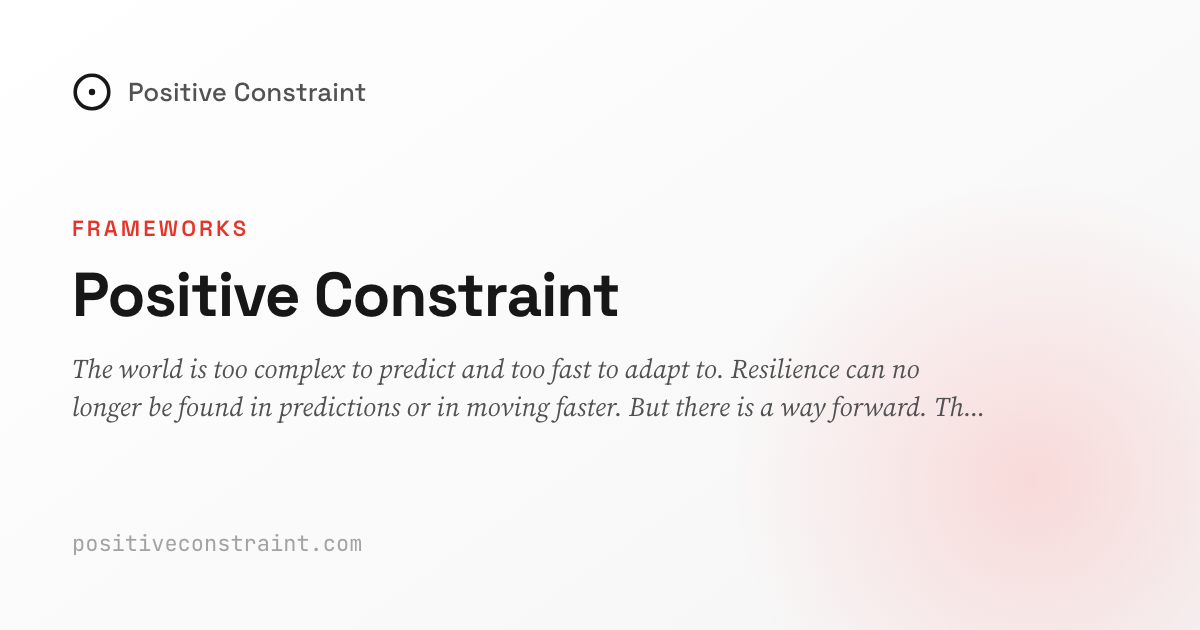
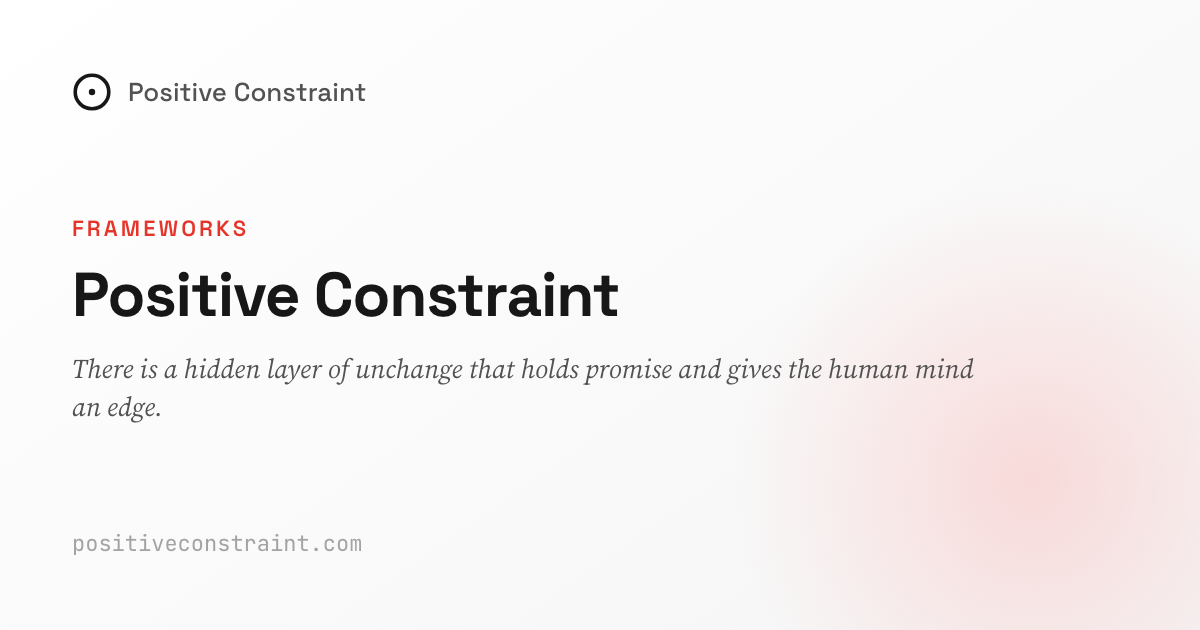
Rewrite Positive Constraint article with new text and subtitle
Replace the article body with the new version (media dropped), add the
"hidden layer of unchange" subtitle, drop the "I've spent a decade" opener,
update reading time to 8 min, and refresh the meta/OG/Twitter descriptions
and the OG card image to match.

Changed region(s): [[0.0925, 0.573, 0.8325, 0.6032], [0.0617, 0.6333, 0.8017, 0.6635]]

diff --git a/site/ideas/positive-constraint/index.html b/site/ideas/positive-constraint/index.html
@@ -15,9 +15,9 @@
 <link rel="icon" href="/favicon.svg" type="image/svg+xml">
 <link rel="apple-touch-icon" href="/apple-touch-icon.png">
 <title>Positive Constraint — Positive Constraint</title>
-<meta name="description" content="The world is too complex to predict and too fast to adapt to. Resilience can no longer be found in predictions or in moving faster. But there is a way forward.">
+<meta name="description" content="There is a hidden layer of unchange that holds promise and gives the human mind an edge.">
 <meta property="og:title" content="Positive Constraint — Positive Constraint">
-<meta property="og:description" content="The world is too complex to predict and too fast to adapt to. Resilience can no longer be found in predictions or in moving faster. But there is a way forward.">
+<meta property="og:description" content="There is a hidden layer of unchange that holds promise and gives the human mind an edge.">
 <meta property="og:type" content="article">
 <meta property="og:url" content="https://positiveconstraint.com/ideas/positive-constraint/">
 <meta property="og:site_name" content="Positive Constraint">
@@ -27,7 +27,7 @@
 <meta property="og:image:alt" content="Positive Constraint — Positive Constraint">
 <meta name="twitter:card" content="summary_large_image">
 <meta name="twitter:title" content="Positive Constraint — Positive Constraint">
-<meta name="twitter:description" content="The world is too complex to predict and too fast to adapt to. Resilience can no longer be found in predictions or in moving faster. But there is a way forward.">
+<meta name="twitter:description" content="There is a hidden layer of unchange that holds promise and gives the human mind an edge.">
 <meta name="twitter:image" content="https://positiveconstraint.com/media/og/positive-constraint.png">
 <link rel="preconnect" href="https://fonts.googleapis.com">
 <link rel="preconnect" href="https://fonts.gstatic.com" crossorigin>
@@ -685,7 +685,7 @@ blockquote cite { display: block; margin-top: var(--space-sm); font-size: 14px; 
   <header>
     <div class="tag-category">FRAMEWORKS</div>
     <h1>Positive Constraint</h1>
-    <p class="piece-summary">The world is too complex to predict and too fast to adapt to. Resilience can no longer be found in predictions or in moving faster. But there is a way forward. The path to resilience will be found not in what's changing, but in what's not. And while everyone rushes to AI, finding it takes a human skill that machines can't replicate.</p>
+    <p class="piece-summary">There is a hidden layer of unchange that holds promise and gives the human mind an edge.</p>
     <div class="piece-meta">
       <span class="tag-label">constraints</span>
       <span class="tag-label">resilience</span>
@@ -693,7 +693,7 @@ blockquote cite { display: block; margin-top: var(--space-sm); font-size: 14px; 
       <span class="tag-label">abstraction</span>
       <span class="tag-label">intuition</span>
       <span class="tag-label">desired-reality</span>
-      <span class="meta-item">20 min read</span>
+      <span class="meta-item">8 min read</span>
     
     
     
@@ -717,197 +717,127 @@ blockquote cite { display: block; margin-top: var(--space-sm); font-size: 14px; 
   </header>
 
   <article>
-    <p>The world is too complex to predict and too fast to adapt to. Resilience can no longer be found in predictions or in moving faster. But there is a way forward. The path to resilience will be found not in what's changing, but in what's not. And while everyone rushes to AI, finding it takes a human skill that machines can't replicate.</p>
+    <p>For the first time in human history, the world is <a href="/ideas/complex-new-world/">too complex to predict and too fast to adapt to</a>. Predicting the future is broken, and by the time we adapt to our environment, the world will change twice over. We need a different strategy.</p>
 
-    <h2>Complex New World</h2>
+    <p>The path to resilience and certainty lies not in what's changing, but <a href="/ideas/embrace-the-unchanging/">in what isn't</a>. Jeff Bezos didn't predict how the market was going to change. He built Amazon's strategy around three unchanging elements. Low prices, vast selection, and fast delivery. Chef Virgilio Martinez based his whole menu on an Andean philosophy that sees the world through the lens of altitude. An unchanging truth that formed his restaurant's identity, and shaped everything he served.</p>
 
-    <p>If you also feel that the world has gone mad, spinning out of control, you're not alone. It has. You're right.</p>
+    <p>There are unchanging elements all around you. The hard part is finding the few that are yours. You can't copy someone else's, and no machine can find them for you. It takes creativity and intuition.</p>
 
-    <div class="media-video media-1-1">
-      <iframe src="https://www.youtube.com/embed/tbdlph_nt24" title="2019 vs 2026" allow="accelerometer; autoplay; clipboard-write; encrypted-media; gyroscope; picture-in-picture" allowfullscreen></iframe>
-    </div>
+    <p>This is the work of constraints. A constraint isn't a nuisance to get rid of, but an unchanging element that shapes everything around it. And constraints run two ways. Read the world through them and you see what shapes it, including what shapes you. Turn them on your own mind and you find the unchanging that is yours to build on. Once you can do this, it works at any size. A menu, a company, a career, a life.</p>
 
-    <p>Over the last few years alone, we lived through a global pandemic, wars, supply-chain collapse, an energy crisis, economic whiplash, and the rise of AI. Not one at a time. Everything, everywhere, all at once. COVID hit global supply chains, which spiked inflation, which reshuffled geopolitics from Ukraine to Israel to Hormuz and Taiwan.</p>
+    <h2>The World in Constraints</h2>
 
-    <p>This is what experts call a polycrisis. Not a sequence of separate problems, but a web where each one deepens the others.</p>
+    <p>Everything in the world can be abstracted into constraints. And once you see them as unchanging, you see them everywhere.</p>
 
-    <img class="media-img" src="/media/a-world-in-chaos.png" alt="2020–2026: a world in chaos" />
+    <p>Budget and time constraints are simple examples. A budget constraint is an unchanging element that shapes how money is spent. There are plenty of ways to spend a $100 budget, but that $100 is fixed. A time constraint is an unchanging element that shapes how time is spent. A 3-hour test or a 15-minute pitch will play out differently every time, but the clock doesn't change.</p>
 
-    <p>And it's not slowing down. At the time of this writing, scientists warn that another global pandemic is a matter of when, not if. Weather models are forecasting what could be the strongest El Niño in 140 years, driving famine and mass migration. Meanwhile, the conflict around Taiwan threatens to reach a climax around 2027, sending global powers to each other's throats. And energy prices, spiked by the Hormuz conflict, show no sign of coming down. Each crisis feeding the next. Each adding fuel to the fire.</p>
+    <p>Gravity is a constraint. It doesn't change, yet it shapes nearly everything. A nation's laws are constraints, guiding the behavior of its residents. The rules of a game shape how it will play out. Cultural traditions influence how people spend their weekends and holidays.</p>
 
-    <p>But even without a single crisis, our world would still be changing fast. Technology alone would see to that.</p>
+    <p>Love is a constraint. It makes you stupid and irrational, and you'd do it again tomorrow. Fear is a constraint. It keeps you safe but too much of it steals your attention and controls your actions.</p>
 
-    <p>In 2016, one analysis listed 73 ways driverless cars will change our lives. People will know exactly when they need to leave and when they will arrive. Parents will trust a secure service with their children. Without the burden of car ownership, how we spend and save money will change. Where we live, how our cities look, and how we spend our time will all change. Seventy-three implications, from one technology.</p>
+    <p>Constraints become a language. You see the forces that shape markets, the values that guide decisions, the necessities that leave no choice.</p>
 
-    <p>And that's just driverless cars. Every aspect of our lives is going through its own disruption. Longevity is changing how long we live and how well we age. How we grow and consume food is being reinvented. How we generate and store energy. We're venturing into space and plan to settle on Mars. And then there's AI, of course, upending everything it touches.</p>
+    <h3>Constraints in Identity and Strategy</h3>
 
-    <p>Each of these will reshape our lives as deeply as driverless cars, sending its own ripples throughout society. Predicting how one might change our lives is possible, in isolation. But these disruptions are not happening in isolation. They are all happening at the same time, in one big turbulent pool. Predicting how all these crises and disruptions will affect us is impossible.</p>
+    <p>Identity and strategy are different sides of the same constraints. Identity is what doesn't change about you. Strategy is the unchanging you choose and hold while the world changes around you. Follow it long enough, and it hardens into identity.</p>
 
-    <div class="media-video media-16-9">
-      <iframe src="https://www.youtube.com/embed/gEjvLf8JkMg" title="Yuval Noah Harari on the unpredictable future" allow="accelerometer; autoplay; clipboard-write; encrypted-media; gyroscope; picture-in-picture" allowfullscreen></iframe>
-    </div>
+    <p>Some constraints you inherit. Venice was built on mud islands to escape barbarian invasions. The water shaped the floating city into what it is.</p>
 
-    <p>For the first time ever, as historian Yuval Noah Harari says, we have no idea what our world will look like in 20 years. A thousand years ago, we taught our kids how to shoot a bow or how to pick mushrooms in the forest. A hundred years ago, we encouraged them to become doctors, lawyers, or engineers to make the most of the new world. The very basic aspects of life were predictable. Not anymore.</p>
+    <p>Some you choose. Patagonia is famous for its core value of environmentalism. It makes the company who it is.</p>
 
-    <blockquote>
-      <p>"If the rate of change on the outside exceeds the rate of change on the inside, the end is near."</p>
-      <cite>— Jack Welch</cite>
-    </blockquote>
+    <p>And some you make. When Doc Rivers coached the Celtics, he aimed a spotlight at the empty space where the next championship banner would go and left it on all season. Nobody could practice without seeing it. It was Rivers' strategy to make the team believe it was possible. They won.</p>
 
-    <p>If we can't predict the future, perhaps we can ride its wave instead. Adapting to change is what we've always done. It makes sense. As Jack Welch, one of the sharpest business minds of the 20th century, put it, outchange your environment, or die. And for a long time, it worked.</p>
+    <p>Each feeds the other. Identity drives strategy, the way it does at Patagonia. Strategy builds identity, the way it did at Amazon.</p>
 
-    <p>It doesn't work anymore.</p>
+    <h3>You Are Your Constraints</h3>
 
-    <p>Adapting assumes you can outchange your environment. But how do you outchange a world that moves faster than you do? By the time you adapt to your new reality, the world will change twice over.</p>
+    <p>Constraints form your identity and shape your behavior, too. Your culture and values guide your decisions. Your family and country influence where you live, what matters to you and the language you speak. Your nana's recipes and childhood memories shape how you cook, how you celebrate, and what feels like home. Everything in your life is a constraint. And so are you.</p>
 
-    <p>It doesn't mean you shouldn't try. But constantly changing, riding wave after wave, is exhausting and unsustainable. People and organizations can only take so much before being overwhelmed by even faster and bigger changes.</p>
+    <p>You are your constraints.</p>
 
-    <p>For the first time in human history, the world is too complex to predict and too fast to adapt to. What used to work no longer does. We need a different strategy for this complex new world.</p>
+    <p>And if you don't choose them yourself, someone else will.</p>
 
-    <h2>Embrace the Unchanging</h2>
+    <h3>A Mirror of Constraints</h3>
 
-    <p>When asked what's going to change in the next 10 years, Jeff Bezos said he's hardly ever asked what <em>isn't</em> going to change. For him that's the more interesting question, because you can build a strategy around the things that are stable in time.</p>
+    <p>Looking at yourself in a mirror of constraints reveals the unchange in you. In the mirror you see who you really are and which way you're pulling. In the mirror you cannot lie. You see reality as it is. How the stories you tell about yourself don't add up.</p>
 
-    <p>No matter the state of the economy or the identity of the president, says Bezos, people will want low prices, vast selection, and fast delivery. When you know something is true even over the long term, you can afford to put a lot of energy into it. To this day, these three elements make up the core of Amazon's strategy and identity.</p>
+    <p>And in the mirror, you see the gap. How who you are and where you are don't take you where you want to be. You're out of tune.</p>
 
-    <p>Instead of trying to predict what's next or to change faster than the world, Bezos anchored Amazon to what doesn't change.</p>
+    <p>Your strategy pulls one way, your identity pulls another. Your values say one thing, your culture does the opposite. Your career is moving one way, your family another. You built around constraints you inherited, or constraints you chose for reasons that no longer apply, and they're not producing the reality you want.</p>
 
-    <p>Until now, we dealt with change by weathering the storm and waiting for it to pass before we could rise again. We built for the calm after the ripples. Now we can't. Now there is no calm. It's a turbulence of change.</p>
+    <p>You need different constraints to build around.</p>
 
-    <p>We can no longer afford to wait for the calm that isn't coming. We need to build for the turbulence that is here to stay. And that means we stop chasing what's changing and anchor to what isn't.</p>
-
-    <p>But how do you find these unchanging elements? And how do you know they're the right ones for you?</p>
-
-    <p>At any given moment, there is an infinite number of things around you that do not change. The sun rises in the east and sets in the west. Gravity pulls you towards the earth. The global population is growing. Unchanging elements are everywhere you look. Most of them are irrelevant and hold no value to you. But a few could be the foundation you build your entire strategy around.</p>
-
-    <p>How do you know which elements are right for you? With the power of the human brain.</p>
-
-    <p>Copying someone else's is tempting. You could build around Amazon's three elements, but Amazon already owns them. The elements that anchor you need to be yours.</p>
-
-    <p>Machines can't help you find your elements. Machines are great at logic and data. AI excels at looking at what is known. But making sense of this complex new world is different. Nothing like this complexity has existed before. This is uncharted territory for humans and machines alike. There is no recorded data, no recognized patterns, nothing for machines to draw on or learn from. Spotting the right unchanging elements for you requires something machines don't have.</p>
-
-    <p>Bezos built around market truths. But unchanging elements can also come from a meaning you offer the world. Virgilio Martinez, one of the world's top chefs, wanted to serve Peru's true identity on a plate. Not just its cuisine, but what the country truly is. The answer came to him when he traveled the land, researching ingredients and communities, and learned of an Andean philosophy that sees the world differently. Not horizontally, but vertically, in levels and altitudes.</p>
-
-    <p>Peru's true identity, Martinez realized, reveals itself through its altitude. From the sea to the mountaintops, each level with its own ingredients, knowledge, and culture. An unchanging truth that his entire menu was built on.</p>
-
-    <div class="media-video media-16-9">
-      <iframe src="https://www.youtube.com/embed/VnS3VKq_5Ws" title="Virgilio Martinez — altitude and Peruvian cuisine" allow="accelerometer; autoplay; clipboard-write; encrypted-media; gyroscope; picture-in-picture" allowfullscreen></iframe>
-    </div>
-
-    <p>Martinez didn't find altitude in a dataset. He used his intuition and creativity instead. Thomas Campbell, a former NASA physicist who has spent decades studying how the mind processes information, argues that intuition is more powerful than intellect. "The questions and the things we want to know that are really important", says Campbell, "there's no data that you can put in to come to a logical conclusion." Where data isn't available, the mind can intuit the way forward. But machines don't have intuition. They are like "a thousand left brains". Finding your unchanging elements isn't a left-brain problem, it's a right-brain one. And that is something only humans can do. It's how Martinez connected altitude, identity, and ingredients.</p>
-
-    <p>But how do we tap this intuition? How do we find our own unchanging elements?</p>
-
-    <h2>Seeing Reality Anew</h2>
-
-    <h3>Constraints</h3>
-
-    <p>The answer is constraints. And not in the way most people think of them.</p>
-
-    <p>Most people flinch from constraints. That's because they miss the point entirely. Artists, for example, have praised them for centuries. Yet what most people see as heavy restrictions might hold the answer we're looking for.</p>
-
-    <p>Artists rely on constraints for creativity. Leonardo da Vinci said that "art lives from constraints and dies from freedom". Best-selling author Umberto Eco adds that "constraints are fundamental to every artistic endeavor".</p>
-
-    <blockquote>
-      <p>"In order to enable the story to proceed, the writer must impose some constraints. Constraints are fundamental to every artistic endeavor. A painter who decides to use oils rather than tempera, a canvas rather than a wall; a composer who opts for a given key; a poet who chooses to use rhyming couplets, or hendecasyllables rather than alexandrines—all establish a system of constraints. So too do avant-garde artists, who seem to avoid constraints; they simply construct others, which go unnoticed."</p>
-      <cite>— Umberto Eco</cite>
-    </blockquote>
-
-    <p>But artists aren't the only ones who appreciate a good constraint. People in business, technology, medicine, education, and sports use constraints to sharpen their thinking. David Epstein shows this in his book "Inside the Box: How Constraints Make Us Better", and goes on to connect it to how the brain actually works. Our brains naturally seek the path of least resistance. Given infinite options, we fall back on familiar, unoriginal habits. But when constrained, the brain can't take shortcuts. It's forced to find new connections and solve problems differently. Not despite the constraint, but because of it.</p>
-
-    <p>Constraints don't limit the mind. They activate it.</p>
-
-    <p>This is where humans do something machines can't. AI excels at logic, patterns, and data. But constraints unlock access to a form of human intelligence that machines can't replicate. Rick Rubin, one of the most celebrated record producers alive, calls it conjuring. To Rubin, constraints don't force answers. They summon intuitive, non-linear creative leaps that have no words yet. Sculptor and philosopher Stanisław Szukalski refers to the creative process as perceiving the as yet unnamed.</p>
-
-    <figure class="media-figure">
-      <img class="media-img" src="/media/vagabond-club.png" alt="Stanisław Szukalski — 'All who eagerly perceive the as yet unnamed, are vagabonds'" />
-      <figcaption>All who eagerly perceive the as yet unnamed, are vagabonds &mdash; Stanisław Szukalski</figcaption>
-    </figure>
-
-    <p>If constraints can tap that power, could they be used to find the resilience we're after?</p>
-
-    <p>Tell your brain "you have three months and half the money" and it gets to work. But what constraints would lead Chef Martinez to Altitude? What would you feed your brain to conjure the foundation your strategy needs?</p>
-
-    <p>Constraints unlock the brain's power, but the complexity around you, your environment, and your challenge don't come neatly packed in constraints.</p>
-
-    <p>You need to translate everything to constraints so you can feed it to your brain and tap its power to find answers.</p>
-
-    <p>But how do you express the world in constraints?</p>
-
-    <h3>Abstraction</h3>
-
-    <figure class="media-figure">
-      <img class="media-img" src="/media/pablo-picasso-the-bull.jpg" alt="Le Taureau (The Bull) by Pablo Picasso" />
-      <figcaption>Le Taureau (The Bull) by Pablo Picasso</figcaption>
-    </figure>
-
-    <p>Taking complex subjects and simplifying them to abstract forms is a skill artists perfect over years. To find the abstract form of a bull, Picasso looked for the few details that carry the most meaning. How much could he take away and still see a bull? Layer by layer he stripped it away, until nothing was left but a single line.</p>
-
-    <p>But it's not the same bull for everyone. It carries different meanings to different people in different contexts. A rancher doesn't care about the artistic line, but about the bull's lineage, age, and fertility. A child doesn't care about the bull's breeding value, she only sees a 'boy cow' that goes 'moo'.</p>
-
-    <p>Abstraction is the process of removing what's unimportant to reveal what's important, and what's important depends on the context.</p>
-
-    <p>Abstraction isn't something you need to learn. You were born with it. As the world grew more complex, people were forced to abstract their world to make sense of it. Psychologist James Flynn found that over the 20th century, abstract reasoning scores rose steadily across every population studied, a phenomenon now known as the Flynn Effect. We evolved to abstract the world around us.</p>
-
-    <p>If we could abstract the world into constraints, we'd be able to bridge the gap and feed the brain exactly what it needs to work with.</p>
-
-    <p>But what is a constraint, in this context? Not a limitation. Not a problem to solve. A constraint is an unchanging element that shapes how its environment changes.</p>
-
-    <p>Budget and time constraints are simple examples. A budget constraint is an unchanging element that shapes how money is spent. There are plenty of ways to spend a $100 budget, but that $100 is fixed. A time constraint is an unchanging element that shapes how time is spent. There are plenty of different outcomes to a 3-hour test or a 15-minute pitch.</p>
-
-    <p>Gravity is a constraint. It doesn't change, yet everything on Earth is shaped by it. The altitude of Peru is a constraint. It shaped the land, the food, the people, and ultimately the menu of one of the world's greatest restaurants. Amazon's low prices, vast selection, and fast delivery that customers want are constraints. They don't change, but they shape how Amazon will grow and change.</p>
-
-    <p>A nation's laws are constraints, guiding the behavior of its residents. The rules of a game shape how it will play out. Cultural traditions influence how people spend their weekends and holidays. Once you start seeing them, they're hard to miss.</p>
-
-    <p>You start seeing the world in constraints. It becomes a language. You see the forces that shape markets, values that guide decisions, necessities that leave no choice. Force. Shape. Influence. Values. Necessity. They all point to something that doesn't change with the power to shape everything around it.</p>
-
-    <p>So how do we abstract into constraints? Abstraction needs context that shows what to keep and what to remove. When abstracting into constraints, the context is what doesn't change. We remove what changes and keep what doesn't.</p>
-
-    <p>And by removing what changes to find what doesn't, you can abstract your world into constraints.</p>
-
-    <p>But something is still missing.</p>
+    <p>But build toward what?</p>
 
     <h3>Desired Reality</h3>
 
-    <p>Every strategy needs a goal, and a strategy for resilience is no different. "Find your unchanging elements" isn't a goal if it's shared by everyone. The goal needs to be yours.</p>
+    <p>Desired reality is the goal in the language of constraints. It's what you want to achieve, and the first question to answer before you look for the unchanging elements that will take you there.</p>
 
-    <p>A goal in the language of constraints is called a Desired Reality, and it does two things.</p>
+    <p>One way to define your desired reality is to reframe your problem as a destination. A problem gives the brain a gap, not a direction. When Martinez was still searching for his restaurant's identity, he started with a problem. His dishes didn't represent true Peru. But a problem tells you what's wrong, not where to go. When he reframed it positively, to serve Peru's true identity on a plate, he had something to build around.</p>
 
-    <p>First, it gives the brain a constraint to work with. A problem described as pain or frustration gives the brain nothing to grip. When Martinez was still searching for his restaurant's identity, he started with a problem. His dishes didn't represent true Peru. But a problem describes a gap, not a destination. When he reframed it as a desired reality, to serve Peru's true identity on a plate, he had something to build around. An unchange he wished to manifest, express, and create.</p>
+    <p>Another way you can find your desired reality is to observe what you don't like about your current reality, and then describe the way you'd want it to look. It needs to be concrete, otherwise it's just vision.</p>
 
-    <p>A desired reality is not a vision. A vision for Martinez might have been 'create the next step for Peruvian cuisine' or 'communicate Peru in a way people have never seen before'. Those point to ambition but tell you nothing about what the world looks like when you get there. Serving Peru's true identity on a plate is concrete enough to act on. Ingredients from every altitude, heritage crops that shaped the people and the land, and flavors you can't find anywhere else.</p>
+    <p>A vision for Martinez might have been "create the next step for Peruvian cuisine". That points to ambition but tells you nothing about what the world looks like when you get there. Serving Peru's true identity on a plate is concrete enough to act on. Ingredients from every altitude, heritage crops that shaped the people and the land, and flavors you can't find anywhere else.</p>
 
-    <p>The second thing a desired reality gives you is the context you need for abstracting the world. What you're building toward is the filter that shows what matters and what doesn't. In the process, you spot which unchanging elements have the power to shape your environment, and ignore everything else.</p>
+    <p style="text-align:center">ⵙ</p>
 
-    <h3>Constraints Mapping &amp; Core Constraints</h3>
+    <h2>See Reality Anew</h2>
 
-    <p>Abstracting the environment in the context of a desired reality is called Constraints Mapping. A few constraints will always matter more than the rest, and this process reveals them. These are the Core Constraints, the high-leverage constraints that have the power to bring about the desired reality.</p>
+    <p>Constraining the mind is the same move turned inward. You force an unchange and let it shape what grows around it. In his book "Inside the Box: How Constraints Make Us Better", David Epstein explains how it works. Our brains naturally seek the path of least resistance. Given infinite options, we fall back on familiar, unoriginal habits. But when constrained, the brain can't take shortcuts. It's forced to find new connections and solve problems differently. Not despite the constraint, but because of it.</p>
 
-    <p>There are many unchanging truths about Peru. Its altitude, its colonial architecture, the warmth of its people. They are all part of its identity. But only altitude tied together the land, the ingredients, and the culture of every level and ecosystem in a way that could be served on a plate. Altitude was the core constraint.</p>
+    <p><strong>Constraints don't limit the mind. They activate it.</strong></p>
 
-    <p>These core constraints are what we've set out to find. The key to your resilience.</p>
+    <p>Artists have known this for centuries. Da Vinci said art lives from constraints and dies from freedom.</p>
 
-    <h2>Summary</h2>
+    <p>Dr. Seuss wrote Green Eggs and Ham with only 50 unique words to win a bet with his publisher. The limit forced him to lean on rhythm and repetition.</p>
 
-    <p>The last few years weren't easy. They were overwhelming, turbulent, and scary. And if that's not enough, the global crises and technological disruptions aren't going anywhere. This age of rapid change is here to stay.</p>
+    <p>Chef Massimo Bottura came up with "Oops I Dropped the Lemon Tart" after his sous-chef dropped one of the last two. Bottura smashed the second tart to match it and put it on the menu.</p>
 
-    <p>People and organizations alike are craving certainty. They struggle to find meaning in a world that stopped playing by the rules they grew up with. What used to work no longer does.</p>
+    <p>Constraints force the mind somewhere it wouldn't go on its own.</p>
 
-    <p>The paradox is that while people cling to what feels safe, the answer won't come from what they already know. It means stepping outside what's familiar to see reality anew and find the path forward.</p>
+    <p>This is where humans do something machines can't.</p>
 
-    <p>Looking at the world through the lens of constraints allows us to see what's possible and what isn't. What can happen and what cannot. It's a way to see beyond what changes to what doesn't, and to build on firm ground.</p>
+    <p><strong>I conjure the constraints that bring your desired reality.</strong></p>
 
-    <p>This human skill lets you see past the surface into what drives the change itself. Not the noise, but what's underneath it. That's where certainty lives, even in a world that offers very little of it.</p>
+    <p>Let me explain what I mean by that.</p>
 
-    <p>Wherever you look, there is complexity that constraints can cut through. Once you train yourself to see them, you start noticing the threads of unchange running through everything.</p>
+    <p>When I'm looking for unchange, I feed my mind the desired reality. That's the prompt to my intuition model. It constrains me and my brain shifts gears, sorting through memory, experience, and patterns I've picked up over the years, making connections it wouldn't normally make.</p>
+
+    <p>Then something appears in my mind before I have words for it. Tender idea, fleeting thought, full of potential. It's there, but I can't put my finger on it. Rick Rubin, a legendary record producer, calls it conjuring. The brain summons intuitive, non-linear creative leaps before it has words for them. Stanisław Szukalski, a sculptor and philosopher, called it perceiving the as yet unnamed. The mind knows before the mouth can speak. An LLM can't. It has nothing but words.</p>
+
+    <p>My brain then tries to make sense of this new constraint. Does it work? Does it close the gap in the mirror? Does it get me where I want?</p>
+
+    <p>Then I see it. The way Martinez saw that altitude tied Peru's land, food, people, and culture into one idea he could build around. A new organizing idea that explains everything, makes sense, and clears the vision. The feeling of Rubin's addictive "miracle of revelation". Seeing reality anew.</p>
+
+    <p>A new constraint is born.</p>
+
+    <h3>Core Constraints</h3>
+
+    <p>Not every constraint carries the same weight. Donella Meadows spent her career mapping where to push on a system, and found that most places barely move it while a few move all of it. She called them leverage points.</p>
+
+    <p>Constraints work the same way. A few hold more than the rest. They sit deeper, they last longer, and they pull harder toward your desired reality. Those are your core constraints.</p>
+
+    <p>There are many unchanging truths about Peru. Its altitude, its colonial architecture, the warmth of its people. But only altitude tied the land, the ingredients, and the culture into something you could serve on a plate. Altitude was the core constraint.</p>
+
+    <p>These are what we set out to find. Your unchanging elements, the ones you build your strategy on and hold while everything else moves. Hold them long enough and you stop calling it strategy. It becomes who you are.</p>
+
+    <h2>The Threads of Unchange</h2>
+
+    <p>The last few years were overwhelming, turbulent, and scary. And if that's not enough, this age of rapid change is here to stay.</p>
+
+    <p>People and organizations crave certainty. They struggle to find meaning in a world that stopped playing by the rules they grew up with. What used to work no longer does.</p>
+
+    <p>The paradox is that while people cling to what feels safe, the answer won't come from what they already know. Finding it means stepping outside what's familiar to see reality anew.</p>
+
+    <p>Wherever you look there's complexity, and constraints cut through it. You see what's possible and what isn't, what can happen and what cannot. Once you train yourself to see them, you start noticing the threads of unchange running through everything.</p>
+
+    <p>This human skill lets you see past the surface to what drives the change. Not the noise, but what's underneath it. That's where certainty lives, even in a world that offers very little of it.</p>
 
     <p>Your world will keep changing. It won't slow down for you, won't wait for you to catch up, and won't tell you where it's going.</p>
 
+    <p>A problem tells you what's wrong. A constraint tells you what to build on.</p>
+
     <p><strong>What's your constraint?</strong></p>
-  
-  
-  
-  
   </article>
 
   <div class="grab-bar">
@@ -985,7 +915,7 @@ blockquote cite { display: block; margin-top: var(--space-sm); font-size: 14px; 
       </div>
       <div class="share-card-cat">FRAMEWORKS</div>
       <div class="share-card-title">Positive Constraint</div>
-      <p class="share-card-summary">The world is too complex to predict and too fast to adapt to. Resilience can no longer be found in predictions or in moving faster. But there is a way forward. The path to resilience will be found not in what's changing, but in what's not. And while everyone rushes to AI, finding it takes a human skill that machines can't replicate.</p>
+      <p class="share-card-summary">There is a hidden layer of unchange that holds promise and gives the human mind an edge.</p>
       <div class="share-card-url" id="shareCardUrl">positiveconstraint.com</div>
     </div>
 
